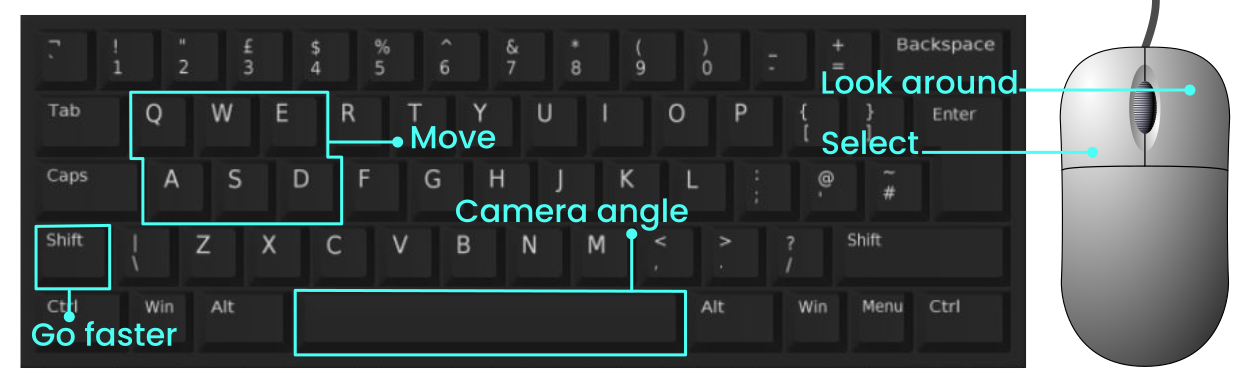
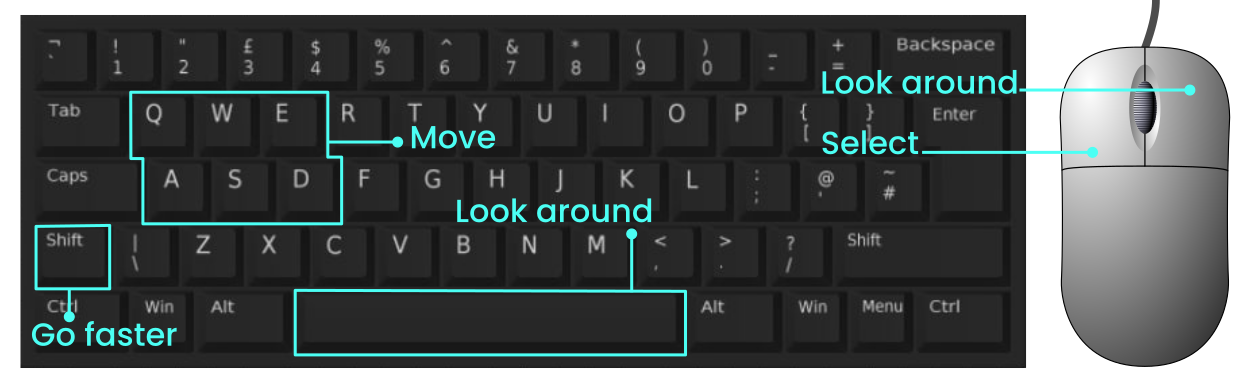
fixed description of space bar and mouse actions

Changed region(s): [[0.3432, 0.5211, 0.5616, 0.6079]]

diff --git a/docs/create-your-odyssey/controls.md b/docs/create-your-odyssey/controls.md
@@ -17,9 +17,7 @@ In Odyssey, you use a combination of keyboard and mouse to move in the 3D space.
 | `E` | Move up |
 | `Q` | Move down |
 | `SHIFT` | Go faster |
-| `RMC (hold)` | Hold right mouse button to rotate camera |
+| `RMC (hold)` or `SPACE BAR (hold)` | Hold right mouse button or space bar to look around |
 | `LMC` | Left mouse click to select objects |
-| `MOUSE` | Move your mouse to look around |
-| `SPACE BAR (hold)` | Hold the space bar to change camera angle |
 
 ![Keyboard and mouse controls for Odyssey](img/controls.png)
